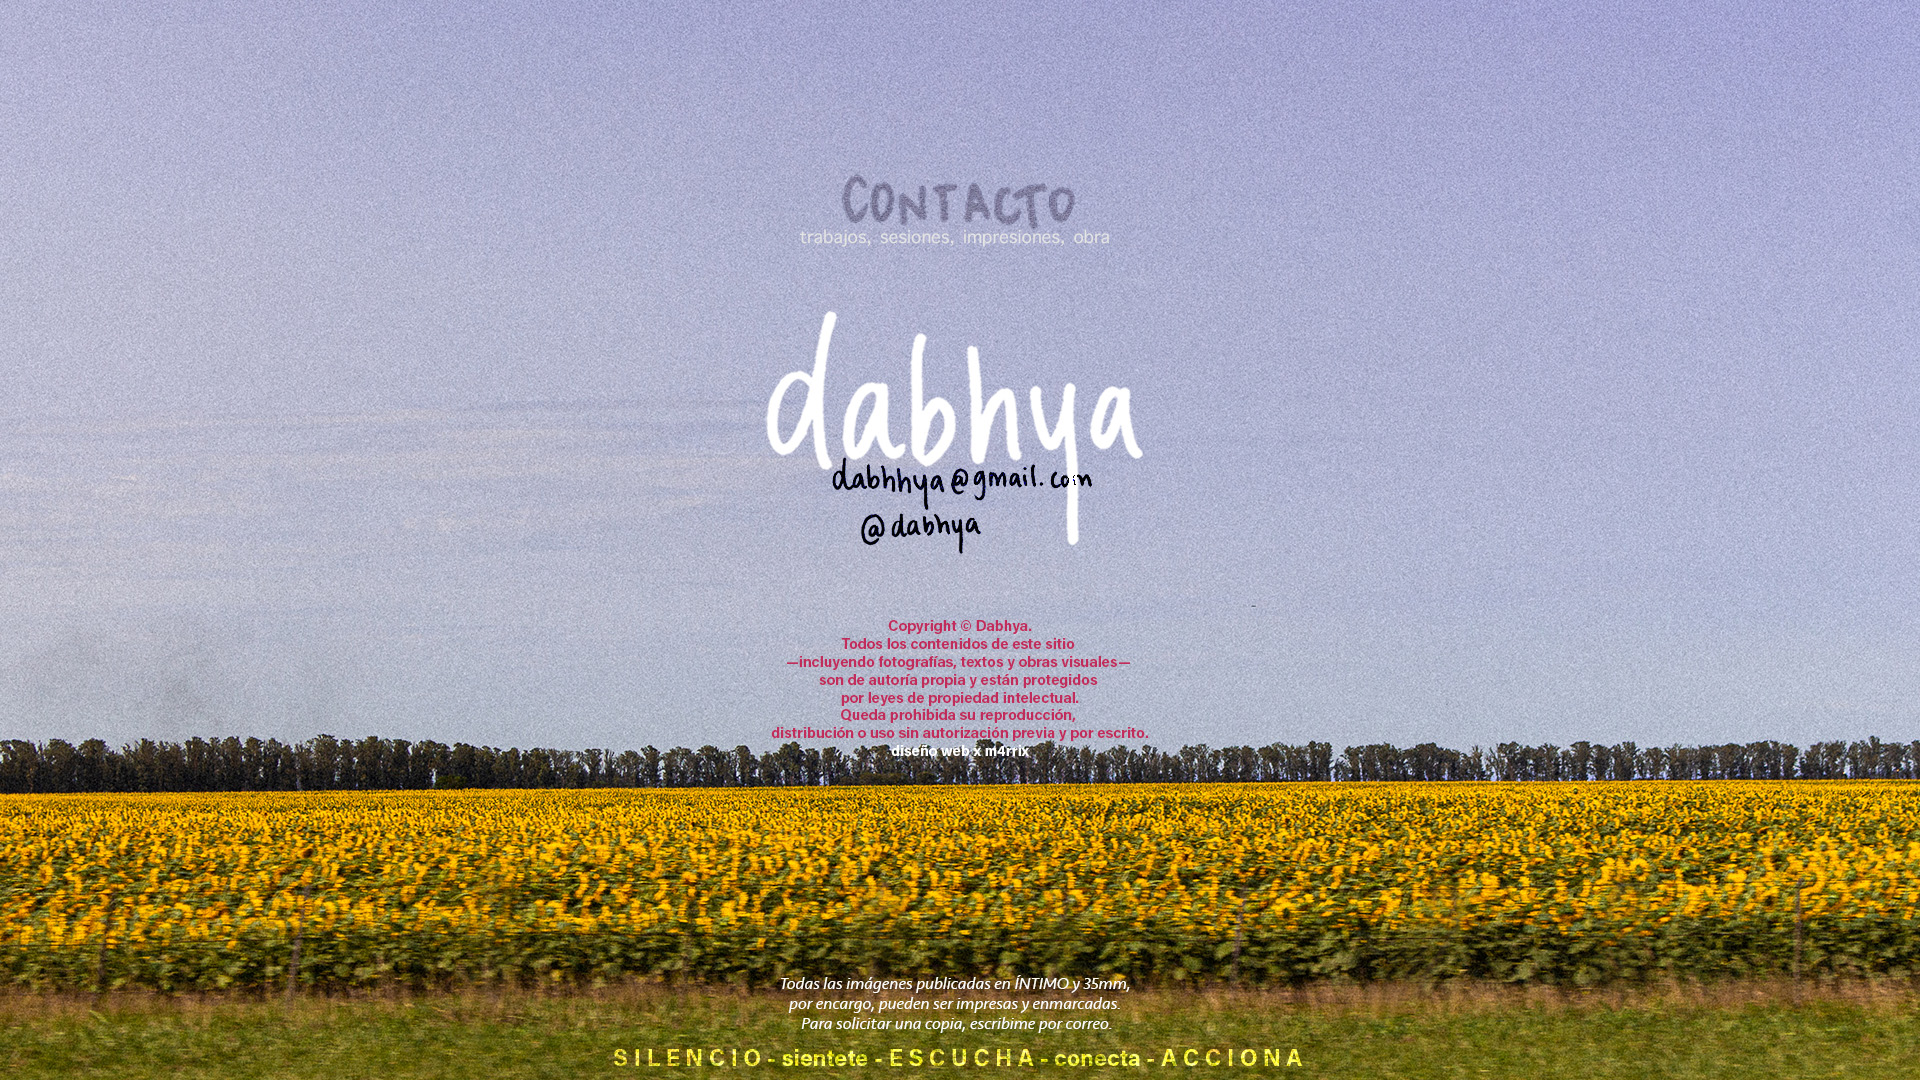
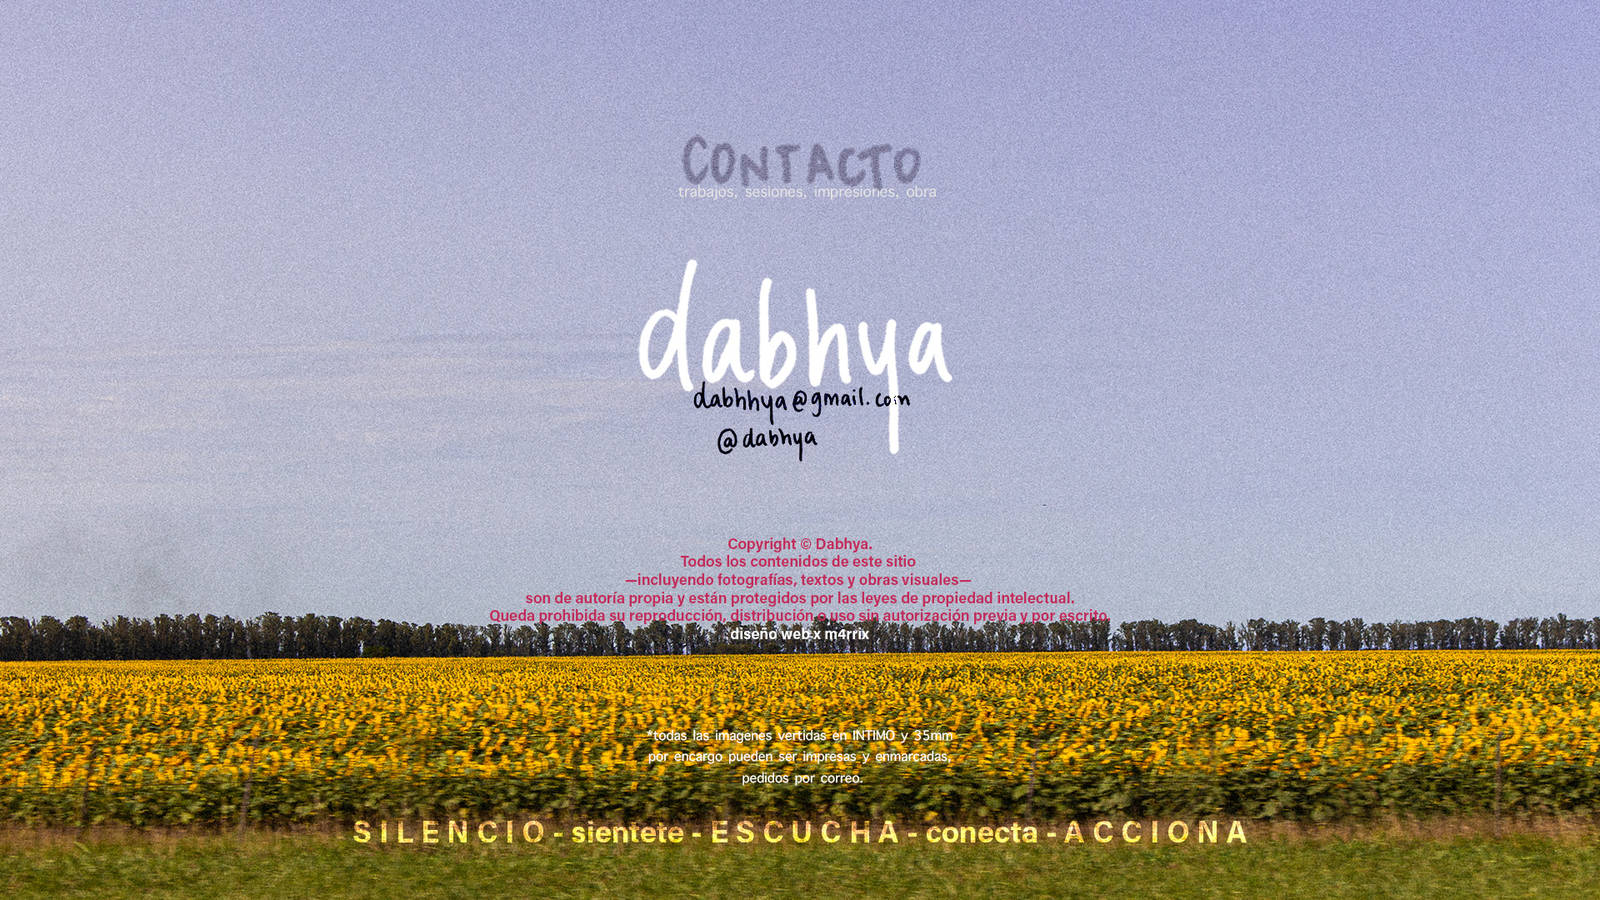
Agrego cambios finales, cambio font-family, agrego click en toda la pantalla de  spalsh

Changed region(s): [[0.0, 0.56, 1.0, 0.8711], [0.2188, 0.9022, 0.7812, 0.9956], [0.4062, 0.1556, 0.5938, 0.2178]]

diff --git a/src/pages/Splash.jsx b/src/pages/Splash.jsx
@@ -1,5 +1,5 @@
 // src/pages/Splash.jsx
-import { Link } from "react-router-dom";
+import { Link, useNavigate } from "react-router-dom";
 
 const slides = [
   "/assets/portada/port1.jpg",
@@ -8,15 +8,23 @@ const slides = [
   "/assets/portada/port4.jpg",
 ];
 
-const PER = 3;                                // 3 segundos por foto
-const TOTAL = slides.length * PER;            // duración total del ciclo
+const PER = 3;                     // 3 segundos por foto
+const TOTAL = slides.length * PER; // duración total del ciclo
 
 export default function Splash() {
+  const navigate = useNavigate();
+
+  const handleEnter = () => {
+    // aca pongo para clickear y que lleve al inicio
+    navigate("/work"); // aca pongo la ruta que quiero que aterrice
+  };
+
   return (
     <div
       className="splash"
+      onClick={handleEnter} // click en cualquier parte parar entrar
       style={{
-        backgroundImage: `url(${slides[0]})`, // fondo visible instantáneamente
+        backgroundImage: `url(${slides[0]})`,
         backgroundSize: "cover",
         backgroundPosition: "center",
       }}
@@ -28,22 +36,22 @@ export default function Splash() {
             className="slide"
             style={{
               backgroundImage: `url(${src})`,
-              animationDelay: `${i * PER}s`,      // desfase de 3s por foto
-              animationDuration: `var(--total)`,  // todo el ciclo
+              animationDelay: `${i * PER}s`,
+              animationDuration: `var(--total)`,
             }}
             aria-hidden="true"
           />
         ))}
       </div>
 
-      <Link to="/work" className="splash-brand">dabhya</Link>
+      {/* el link sigue funcionando, pero no dispara el click del fondo */}
+      <Link
+        to="/work"
+        className="splash-brand"
+        onClick={(e) => e.stopPropagation()} // para que no corra handleEnter dos veces
+      >
+        dabhya
+      </Link>
     </div>
   );
 }
-
-
-//QUE TODAS LAS IMAGENES DUREN 3 SEGUNDOS 👌
-
-//HACER ZOOM A LAS FOTOS o sea el click
-
-//CERRAR 28

diff --git a/src/App.css b/src/App.css
@@ -10,13 +10,13 @@
   --link-hover: #4a3aff; /* hover */
 }
 h1,h2,h3 {
-    font-family: "Roboto Mono", system-ui, monospace;
-  font-weight: 300; /* delgado */
+    font-family:"Space Grotesk", system-ui;
+   /* delgado */
    letter-spacing:.005em 
   }
 body { 
-   font-family: "Roboto Mono", system-ui, monospace;
-  font-weight: 300; /* delgado */ 
+   font-family:"Space Grotesk", system-ui;
+   /* delgado */ 
 }
 .page-title{ 
   font-size: clamp(2rem, 3.5vw, 3rem); 
@@ -29,8 +29,8 @@ a { text-underline-offset: 3px; }
 html, body, #root { height: 100%; }
 body {
   margin: 0; 
-   font-family: "Roboto Mono", system-ui, monospace;
-  font-weight: 300; /* delgado */
+   font-family:"Space Grotesk", system-ui;
+   /* delgado */
   background: /*#b9b9b9;*/
    radial-gradient(circle at top, #101018 0, #b9b9b9 55%, #020203 100%); /*probar todo con b9b9b9*/
   color: #f5f5f5;
@@ -159,16 +159,19 @@ a:focus-visible{
   outline-offset: 3px;
 }
 
+.icon {
+  font-size: larger;
+}
 
 
 .brand { 
   font-weight: 700; 
   letter-spacing: .02em;  
-  font-family: "Roboto Mono", system-ui, monospace;
-  font-weight: 300; /* delgado */}
+  font-family:"Space Grotesk", system-ui;
+   /* delgado */}
 
 .home .hero-title { font-size: clamp(2.8rem, 4vw, 6rem); line-height: .95; margin: 2rem 0 .5rem; }
-.thin { font-weight: 300; color: var(--muted); }
+.thin {  color: var(--muted); }
 .hero-sub { color: var(--muted); margin-bottom: 1.5rem; }
 .btn {
   display:inline-block; border:1px solid var(--fg); padding:.75rem 1rem; border-radius:999px;
@@ -329,7 +332,7 @@ img {
   border-top: 1px solid rgba(255, 255, 255, 0.16);
   padding: 0.6rem clamp(1.5rem, 4vw, 3rem);
   text-align: center;
-  font-family: "Roboto Mono", system-ui, monospace;
+  font-family:"Space Grotesk", system-ui;
   font-weight: 900;
   font-size: 0.7rem;
   /*letter-spacing: 0.08em;*/

diff --git a/src/components/Nav.jsx b/src/components/Nav.jsx
@@ -5,12 +5,12 @@ export default function Nav() {
     <header className="nav">
       <Link to="/" className="brand">dabhya</Link>
       <nav>
-        <NavLink to="/work">✨</NavLink>
+        <NavLink to="/work" className="icon">✨</NavLink>
         <NavLink to="/sesiones"><strong>SESIONES</strong></NavLink>
         <NavLink to="/intimos"><strong>INTIMO</strong></NavLink>
         <NavLink to="/testigo"><strong>TESTIGO</strong></NavLink>
         <NavLink to="/experimental"><strong>35MM</strong></NavLink>
-        <NavLink to="/contact">🤍</NavLink> {/* */}
+        <NavLink to="/contact" className="icon">🤍</NavLink> {/* */}
       </nav>
     </header>
   );

diff --git a/src/data/sesiones.js b/src/data/sesiones.js
@@ -101,7 +101,7 @@ export const sesiones = [
   }, 
   {
     slug: "ernestina",
-    title: "Hernestina",
+    title: "Ernestina",
     cover: `${BASE}/ernestina/0.jpg`,   // usa cover.jpg (o duplica 01.jpg con ese nombre)
     images: genImages("ernestina", 10, "jpg"),
   }, 
@@ -109,7 +109,7 @@ export const sesiones = [
     slug: "lourdes",
     title: "Lourdes",
     cover: `${BASE}/lourdes/0.jpg`,   // usa cover.jpg (o duplica 01.jpg con ese nombre)
-    images: genImages("13-clara", 13, "jpg"),
+    images: genImages("lourdes", 13, "jpg"),
   }, 
  {
     slug: "victoria",

diff --git a/index.html b/index.html
@@ -8,8 +8,9 @@
 
   <!-- Tipografías -->
   <link
-  href="https://fonts.googleapis.com/css2?family=Roboto+Mono:wght@100;200;300;400;500;600;700&display=swap"
+   href="https://fonts.googleapis.com/css2?family=Inter:wght@300;400;600;800&family=Space+Grotesk:wght@400;700&display=swap"
   rel="stylesheet"
+
   />
 
   <meta

diff --git a/src/styles/Splash.css b/src/styles/Splash.css
@@ -42,7 +42,7 @@
   transform: translate(-50%, -50%);
   z-index: 1;
 
-  font-family: "Roboto Mono", system-ui, monospace;
+  font-family:"Space Grotesk", system-ui;
   font-weight: 700;
   letter-spacing: .04em;
   
